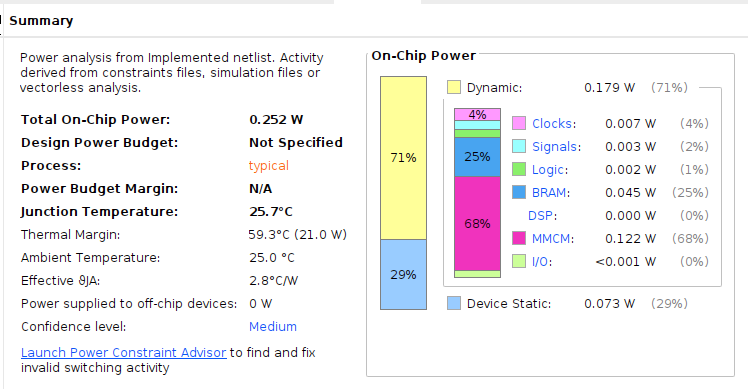
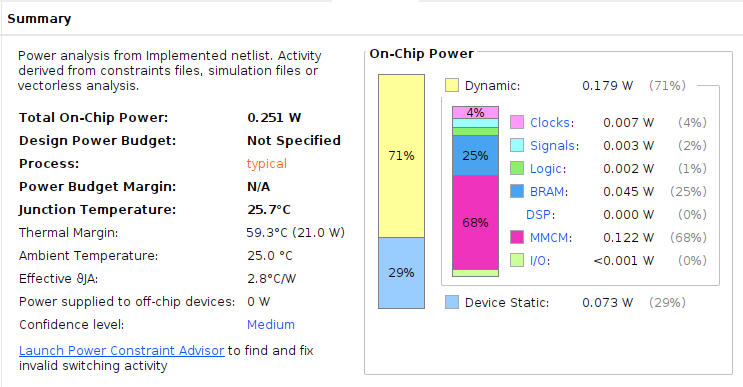
docs(fpga): refresh Vivado captures from the 2026-11-16 run

diff --git a/docs/fpga.md b/docs/fpga.md
@@ -402,7 +402,8 @@ clean implementation commit `fc57a72`, top `fpga_top`, and
 evidence archive are attached to the [`v1.0.0` release](https://github.com/vohoangnguyennnn/riscv-rv32im-core/releases/tag/v1.0.0).
 
 The timing, utilization, and power values below follow the updated Vivado
-captures supplied on 2026-11-04. The archived package above identifies the
+captures from 2026-11-16 (non-incremental run after the `por_i` RTL change).
+The archived package above identifies the
 earlier release; its report hashes and board results do not identify this new
 implementation. Routing, coverage, DRC, bitstream, and methodology findings
 remain archived results until new text reports are exported.

diff --git a/docs/hardware-validation.md b/docs/hardware-validation.md
@@ -146,7 +146,8 @@ clock. They are not FPGA wall-clock measurements.
 ## 5. Post-route implementation results
 
 The timing, utilization, and power figures in this section follow the updated
-Vivado captures supplied on 2026-11-04. The provenance in Section 2, report
+Vivado captures from 2026-11-16 (Vivado 2024.1, non-incremental run after the
+`por_i` RTL change). The provenance in Section 2, report
 hashes in Section 7, and board-validation results identify the earlier
 `v1.0.0` package. New text reports, source identity, and bitstream hashes have
 not yet been recorded for the updated captures.
